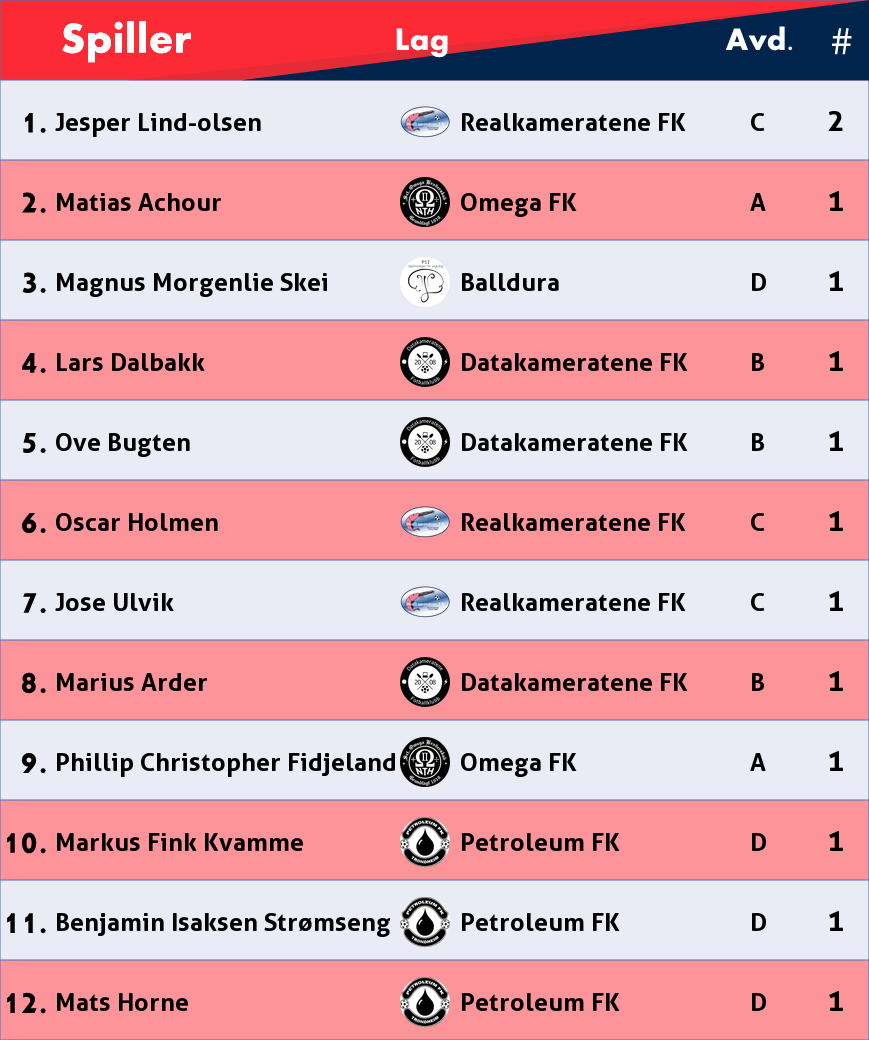
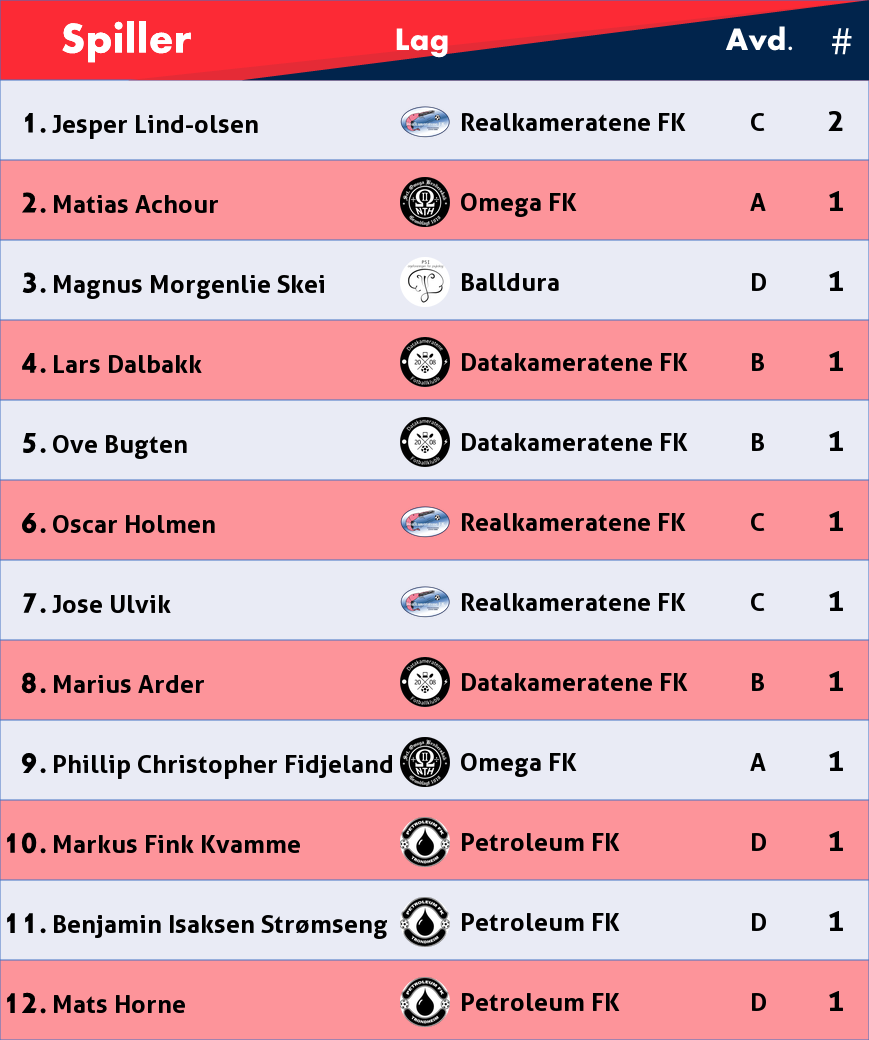
Updated table

diff --git a/Scripts/UpdateStats.py b/Scripts/UpdateStats.py
@@ -220,7 +220,7 @@ def createStatImage(df: pd.DataFrame, index: int):
         logo = Image.open("C:/Users/Simen/tables2/tables/Scripts/Logoer - Runde/" + teamname + ".png")
         logo = logo.resize((50,50), Image.ANTIALIAS)
         img.paste(logo,(400, int(y)-10), mask = logo)
-        draw.text((55, y),playername,(0,0,0), font=font)
+        draw.text((52, y+2),playername,(0,0,0), font=font)
         draw.text((460, y),teamname,(0,0,0), font=font)
         draw.text((750, y),leagues[teamname],(0,0,0),font=font)
         draw.text((827, y-5),str(stat),(0,0,0),font=fontBig)
